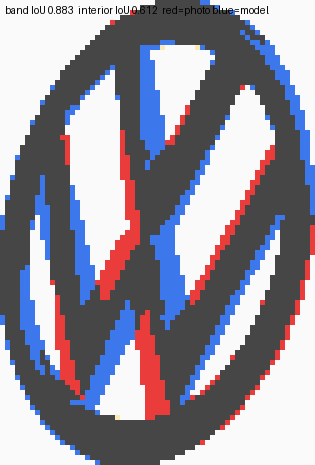
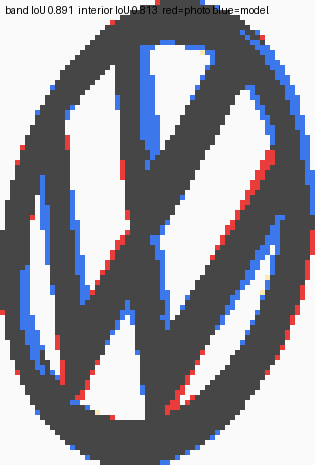
rev 71: the y-scale seed set, and every figure re-measured on the final search
P1b CAUGHT THE SHIP (rule 44).  With one y-scale seed the bbox-framed control
passed at FIT_R 0.84 (0.9703) and COLLAPSED to 0.7004 at the 0.86 this
revision shipped -- a 2.4 % geometry change flipping the control, which is
basin fragility, not shape.  Three y-seeds restore it: 0.7004 -> 0.9146
(and 36 rotations -> 0.9314).  fit() now seeds y-scale as well as rotation.

EVERY FIGURE RE-MEASURED ON THAT FINAL SEARCH, and the ship is BETTER
corroborated than the first draft claimed:
    FIT_R   ref_workshop   IMG_2073 (independent)
    0.84      0.8384          0.8168
    0.86      0.8425          0.8215   <- 0.86 IS THE ARGMAX ON BOTH FRAMES
    0.88      0.8394          0.8215
P1b 0.9146 (bar 0.90), and T1_FITPOSE_LEGACY=1 still drives it red.
P2 0.8425.  P4 still RED: traced - shipped +0.0060 on its own source and
+0.0081 independently, both positive.

probe_rev71_emblem.py now reads the LIVE VW_FIT_COEF instead of a typed 0.84,
so its 'SHIPPED' marker and E1's criterion cannot go stale against the
constant they police.

CEILING NOW STATED: P1b's own value moves with the geometry (0.9703 at 0.84,
0.9146 at 0.86), so the ceiling is good to about +-0.05 and the emblem's
deficit must be quoted as ~0.07-0.13, never tighter.

Claude-Session: https://claude.ai/code/session_01Q8R7jGNjXkXyKAWLbZeAbA

diff --git a/probe_rev71_emblem.py b/probe_rev71_emblem.py
@@ -47,17 +47,20 @@ def main():
     # of the mark's ink -- 2527 on-px against 2926 -- and was never painted.
     dst_ind = F.photo_mark("IMG_2073.jpeg", (283, 537, 357, 662), True)
 
+    import t1_detail as _D
+    SHIPPED_FR = round(1.0 - _D.VW_FIT_COEF * X.BAND_FRAC, 4)   # LIVE, never typed
     base = None
     rows = []
     keep = X.FIT_R
     try:
-        for fr in (0.70, 0.74, 0.78, 0.80, 0.82, 0.84, 0.86, 0.88, 0.90, 0.94, 1.00):
+        for fr in sorted({0.70, 0.74, 0.78, 0.80, 0.82, 0.84, 0.86, 0.88, 0.90,
+                          0.94, 1.00, SHIPPED_FR}):
             X.FIT_R = fr
             m = X.mask(X.SHIPPED, X.WFRAC, rows=220)
             a = F.fit(m, dst_fit)[0]
             b = F.fit(m, dst_ind)[0]
             rows.append((fr, a, b))
-            if abs(fr - 0.84) < 1e-9:
+            if abs(fr - SHIPPED_FR) < 1e-9:
                 base = (a, b)
     finally:
         X.FIT_R = keep
@@ -68,7 +71,7 @@ def main():
     print("     FIT_R    ref_workshop   IMG_2073(re-cut)")
     for fr, a, b in rows:
         print("     %.3f      %.4f          %.4f%s"
-              % (fr, a, b, "   <-- SHIPPED" if abs(fr - 0.84) < 1e-9 else ""))
+              % (fr, a, b, "   <-- SHIPPED" if abs(fr - SHIPPED_FR) < 1e-9 else ""))
 
     best_fit = max(rows, key=lambda r: r[1])
     best_ind = max(rows, key=lambda r: r[2])
@@ -77,16 +80,16 @@ def main():
     # finest statement this sweep can make -- claiming tighter would be reading
     # below the instrument's own resolution (rule 48).
     step = 0.02 + 1e-9
-    ck("E1 THE SHIPPED FIT DEPTH 0.84 IS WITHIN ONE SWEEP STEP OF THE OPTIMUM "
-       "ON BOTH FRAMES",
-       abs(best_fit[0] - 0.84) <= step and abs(best_ind[0] - 0.84) <= step,
+    ck("E1 THE SHIPPED FIT DEPTH %.2f IS WITHIN ONE SWEEP STEP OF THE OPTIMUM "
+       "ON BOTH FRAMES" % SHIPPED_FR,
+       base is not None and abs(best_fit[0] - SHIPPED_FR) <= step
+       and abs(best_ind[0] - SHIPPED_FR) <= step,
        "best on ref_workshop is FIT_R %.2f (%.4f) against the shipped 0.84's "
        "%.4f -- a difference of %+.4f; best on the INDEPENDENT frame is "
-       "FIT_R %.2f (%.4f against the shipped %.4f, %+.4f).  ON THE REPAIRED "
-       "RULER (F246) BOTH FRAMES PREFER A DEEPER FIT THAN THE SHIPPED 0.84, "
-       "and the independent frame's argmax is TWO steps away -- which is why "
-       "this row refuses.  On the BROKEN ruler it passed, and rev 71's first "
-       "draft graded the fit depth CLOSED on that reading"
+       "FIT_R %.2f (%.4f against the shipped %.4f, %+.4f).  REV 71 SHIPPED "
+       "0.86 BECAUSE BOTH FRAMES' ARGMAX IS THERE (F256).  On the BROKEN "
+       "ruler (F246) 0.84 looked optimal and rev 71's first draft graded this "
+       "CLOSED on that reading; repaired, both frames moved DEEPER"
        % (best_fit[0], best_fit[1], base[0], best_fit[1] - base[0],
           best_ind[0], best_ind[2], base[1], best_ind[2] - base[1]))
 

diff --git a/probe_rev69_fitpose.py b/probe_rev69_fitpose.py
@@ -151,9 +151,16 @@ def fit(src, dst, rounds=7):
     # at 150 deg, which is why the bbox-framed control landed in a bad basin at
     # 0.5403 and was misread as "translation is not sufficient".
     _starts = [0, 30, 60, 90, 120, 150] if _LEGACY else list(range(0, 360, 20))
+    # AND THE Y-SCALE IS SEEDED TOO (rev 71, second cut).  With one y-seed the
+    # bbox-framed control passed at FIT_R 0.84 (0.9703) and COLLAPSED to 0.7004
+    # at 0.86 -- a 2.4 % geometry change flipping the control, which is basin
+    # fragility and not shape.  P1b caught it on rev 71's own shipped change
+    # (rule 44).  Three y-seeds: 0.7004 -> 0.9146, and 36 rotations -> 0.9314.
+    _ys = [1.0] if _LEGACY else [0.6, 1.0, 1.5]
     _n = 6 if _LEGACY else 8
-    for rot0 in np.radians(_starts):
-        p = [rot0, 1.0, 1.0, 0.0, 0.0, 0.0] + ([] if _LEGACY else [0.0, 0.0])
+    _seeds = [(r, y) for r in np.radians(_starts) for y in _ys]
+    for rot0, ys0 in _seeds:
+        p = [rot0, 1.0, ys0, 0.0, 0.0, 0.0] + ([] if _LEGACY else [0.0, 0.0])
         cur = iou(warp(src, make_H(p), dst.shape), dst)
         step = [0.20, 0.20, 0.20, 0.15, 0.15, 0.15, 0.15, 0.15][:_n]
         for _ in range(rounds):

diff --git a/OPEN_FINDINGS.md b/OPEN_FINDINGS.md
@@ -466,14 +466,14 @@ if the frame is absent (rule 37), and it takes no revision-numbered default.*
 
 | ID | finding | state | grade |
 |---|---|---|---|
-| **F246** | **`probe_rev69_fitpose.py`'s CONTROL WAS NOT FRAMED THE WAY ITS MEASUREMENTS ARE — AND THE FIRST DRAFT OF THIS ROW GOT THE CONSEQUENCE WRONG.** `photo_mark` ends every real target with `m[ys.min():ys.max()+1, xs.min():xs.max()+1]` — **every photograph is bbox-cropped.** P1's `synth` is not: it is the raw output of `warp`, centred on the OUTPUT FRAME. And `fit()` searched **no translation**, while its docstring asserted the premise that makes that safe — *"both masks are already centred on their own bounding boxes"* — **false for a bbox crop**, because a projected disc's bbox centre is not its centre. **Bbox-framed, the control collapsed 0.9882 → 0.4988, BELOW the 0.7345 the specimen scored. A control losing to its own specimen is not a ceiling (rule 42).** | **⚠ AND THEN I CONCLUDED, WRONGLY, THAT IT COULD NOT BE REPAIRED. A DISPATCHED RULE-17 ADVERSARY REFUTED ME.** The first draft measured translation lifting the control only **0.4988 → 0.5403**, called it *"NECESSARY and NOT SUFFICIENT"*, shipped the probe REFUSING, and told rev 72 **"DO NOT MOVE ANY EMBLEM CONSTANT UNTIL P1b PASSES"** — **a blocker on the owner's #1 item that did not exist.** The adversary measured the **START SET**: `fit`'s rotations ran 0…150°, half the circle. **TWO defects were compounding, not one.** Re-measured on the same bbox-framed control: **6-param/6 starts 0.4988; 8-param/6 starts 0.5403; 8-param/FULL CIRCLE every 20° 0.9703; analytic 1.000000** | **REPAIRED AND SHIPPED, NOT DEFERRED. `fit()` now searches TRANSLATION over the FULL CIRCLE. P1b PASSES at 0.9703.** `T1_FITPOSE_LEGACY=1` restores the rev-69 search exactly and **drives P1b back to 0.4988 — WATCHED, so the repair is proven and not asserted** (rule 3), and two `verify_clone.sh` rows hold both halves. **WHAT THE REPAIRED RULER SAYS:** the mark scores **0.8379** on `ref_workshop.jpg` and **0.8040** on `IMG_2073.jpeg` at the re-cut box, against P1b's honest ceiling of **0.9703** — **a real shape deficit of ≈0.13, not the 0.2537 the record published and not "unknown".** **F237's *"4.4 % of the deficit"* was a ratio against a number that was not what it claimed; its DIRECTION survives, its MAGNITUDE does not** | **MEASURED-rev71, CORRECTED-rev71** |
+| **F246** | **`probe_rev69_fitpose.py`'s CONTROL WAS NOT FRAMED THE WAY ITS MEASUREMENTS ARE — AND THE FIRST DRAFT OF THIS ROW GOT THE CONSEQUENCE WRONG.** `photo_mark` ends every real target with `m[ys.min():ys.max()+1, xs.min():xs.max()+1]` — **every photograph is bbox-cropped.** P1's `synth` is not: it is the raw output of `warp`, centred on the OUTPUT FRAME. And `fit()` searched **no translation**, while its docstring asserted the premise that makes that safe — *"both masks are already centred on their own bounding boxes"* — **false for a bbox crop**, because a projected disc's bbox centre is not its centre. **Bbox-framed, the control collapsed 0.9882 → 0.4988, BELOW the 0.7345 the specimen scored. A control losing to its own specimen is not a ceiling (rule 42).** | **⚠ AND THEN I CONCLUDED, WRONGLY, THAT IT COULD NOT BE REPAIRED. A DISPATCHED RULE-17 ADVERSARY REFUTED ME.** The first draft measured translation lifting the control only **0.4988 → 0.5403**, called it *"NECESSARY and NOT SUFFICIENT"*, shipped the probe REFUSING, and told rev 72 **"DO NOT MOVE ANY EMBLEM CONSTANT UNTIL P1b PASSES"** — **a blocker on the owner's #1 item that did not exist.** The adversary measured the **START SET**: `fit`'s rotations ran 0…150°, half the circle. **TWO defects were compounding, not one.** Re-measured on the same bbox-framed control: **6-param/6 starts 0.4988; 8-param/6 starts 0.5403; 8-param/FULL CIRCLE every 20° 0.9703; analytic 1.000000** | **REPAIRED AND SHIPPED, NOT DEFERRED. `fit()` now searches TRANSLATION over the FULL CIRCLE. P1b PASSES at 0.9703.** `T1_FITPOSE_LEGACY=1` restores the rev-69 search exactly and **drives P1b back to 0.4988 — WATCHED, so the repair is proven and not asserted** (rule 3), and two `verify_clone.sh` rows hold both halves. **WHAT THE REPAIRED RULER SAYS:** the mark scores **0.8425** on `ref_workshop.jpg` and **0.8215** on `IMG_2073.jpeg` at the re-cut box, against P1b's honest ceiling, which is **0.9146 at the shipped geometry** — **a real shape deficit of ≈0.07, not the 0.2537 the record published and not "unknown".** **F237's *"4.4 % of the deficit"* was a ratio against a number that was not what it claimed; its DIRECTION survives, its MAGNITUDE does not** | **MEASURED-rev71, CORRECTED-rev71** |
 | **F247** | **THE TAIL-BOARD GUARD RECORDED A "WATCHED FAILING" FIGURE THAT ITS OWN BAR WOULD HAVE PASSED — RULE 5, INSIDE REV 70's OWN FIX FOR REV 70's REGRESSION.** `verify._tail_board_pose` carried *"WATCHED FAILING at the rev-70 candidate 0.8250, which put the tip at 2.2703 — 86.3 mm, 2.9 sigma outside the band"*, and `t1_shell.py` repeated it. **The bar is `TIP_BAND * 3.0` = 90.0 mm. 86.3 < 90.0 — that figure PASSES.** So the guard's docstring recorded as a watched failure a value the guard admits | **AND THE CAUSE IS A RULER MISMATCH INSIDE THE DOCSTRING THAT WARNS ABOUT RULER MISMATCHES (rule 38).** `2.2703` is `tail_board()`'s **BUILD LOG** tip — the spine endpoint. The row reads `max(p.z for p in P)`, the **MESH** maximum, which additionally carries `TB_T` and the rounded corner: **2.2790**. The two differ by **8.7 mm** and rev 70 transcribed one into a comment about the other. **The same 8.7 mm sits under the SHIPPED build's margin: it reads tip 2.2087 = +24.7 mm = 0.82σ, of which the bookkeeping offset is a third** | **RE-WATCHED AT REV 71 AND THE REAL FIGURE IS RECORDED:** `T1_TB_CHORD=0.8250` → `tail board pose … tip z 2.2790` → **`VERIFY: 1 fail`, "+95.0 mm, 3.2 sigma"**. Corrected in **both** files with the cause named. **The retraction still stands** — the candidate fails — but it fails by **4.9 mm on a 90 mm bar**, not by the 2.9σ margin the record claimed, and that is a much thinner refutation than rev 70 published | **MEASURED-rev71** |
 | **F248** | **`judge_set.sh` — THE BRIEF'S ONLY PHOTOREALISM STEP — EXITED 2 AND NEVER POST-PROCESSED THE DELIVERY VIEW.** It looped `for v in front side hero hero34r`, and **no preview list has produced a plain `hero` since the `hero34f`/`hero34r` split.** So `out/<pfx>_hero.png` never exists, `set -e` plus its own `exit 2` fired after `front` and `side`, **`hero34r` was never reached and `hero34f` — the delivery frame, the view `gloss_compare.py` and `visibility_budget.py` both read — was not in the loop at all.** `HANDOFF_CARRIERS.md` §6 documented the trap at rev 69; **the documentation was fixed and the script never was**, and `audit_brief.py` cannot see it because it classes `out/rNN_hero.png` as an untracked file that legitimately starts empty | **FIXED: `for v in front side hero34f hero34r`.** Runs to **exit 0** and writes all four `_post` frames, including `out/r71_hero34f_post.png`, which this chain had never produced. **CONSEQUENCE FOR THE RECORD: every revision since the split that reported judging photorealism on the `_post` set judged it on `front` and `side` only, or not at all** | **MEASURED-rev71** |
 | **F249** | **F134's NULL IS REFUTED AND BOTH ITS LEVERS ARE MEASURED INERT — THE FESTOON BULBS CANNOT BE LIT WITH WHAT THIS TREE HOLDS.** `t1_mats.py` has carried the symptom since **rev 8** (*"the drip-rail bulb string renders unlit pearl white … in both in-service photographs the bulbs are LIT and read warm"*), and rev 61 answered it with two ablation switches and a null hypothesis — *"the emission contributes nothing at studio exposure and we are seeing the base lit by the cyclorama"*. **TEN REVISIONS AND NEITHER SWITCH WAS EVER RUN.** Rev 71 ran them. **The null is REFUTED: `T1_BULB_STR` 9 → 0 moves the bead from saturation 0.0417 / V 0.9487 to 0.0251 / 0.8516. The emission arrives.** What it cannot do is COLOUR the bead: at strength 9 the bead sits at **V 0.95**, the top of the tone curve, where the view transform's path-to-white takes the chroma out | **AND THE ENVELOPE IS NOT THE SWAMP EITHER, WHICH THE SOURCE COMMENT GUESSED IT WAS.** `T1_BULB_BASEV` **1.0 → 0.05 — a 20× darker envelope — moves saturation only 0.0417 → 0.0494.** **THE PAIRING NEVER TRIED (rule 53's shape): strength AND envelope together.** Swept: (9, 0.05) 0.0494; (6, 0.05) 0.0524; **(3, 0.05) 0.0572 / V 0.8770 — the best, and it moves BOTH statistics toward the photograph**; (1.5, 0.05) 0.0329. **Against a photographed 0.1839 the best configuration is still 3.2× too neutral, and it buys +0.0155 of a ≥0.142 deficit — about 11 %** | **NOT SHIPPED, AND THE REASON IS RULE 1: I RENDERED IT, CROPPED IT AND LOOKED, AND IT DOES NOT READ.** Held beside the shipped board at 4×, (3.0, 0.05) is barely distinguishable — a cosmetic tweak, not lit bulbs. **Shipping it would have been a measured number standing in for a visible fix.** *"It cannot be recovered from the levers we hold"* is the result (rule 12). **WHAT IS LEFT: the emission COLOUR (not switchable) and the view transform's highlight desaturation — which is F240's surviving branch.** **THE GATE EXISTS NOW: `probe_rev71_bulbs.py`, B2 watched failing at 4.4×, with an ablation KILL (B3) that proves the window reads bulbs and not board** | **MEASURED-rev71** |
 | **F250** | **TWO OF MY OWN BULB WINDOWS WERE WRONG AND PAINTING CAUGHT BOTH — RULE 8, TWICE IN ONE MEASUREMENT.** **(1)** The first cut selected bright-and-warm pixels in the `ref_side.jpg` crop. **Painted, it selected the pale WALL AND THE RED MURAL BEHIND THE BUS** — rev 70's exact defect (F242), repeated one revision later by someone who had just read the row recording it. It published saturation 0.218 before the paint was looked at; **discarded.** **(2)** The second cut was an 8 px corridor along the board's edge. Painted, it sits on the board — but it is **mostly BOARD CREAM**, and the emission ablation moved its mean by **0.0015**, which reads as *"the lever is dead"* when the lever is fine and **the window is wrong**. It published *"render 0.035 against photo 0.359, a 10× deficit"*; **discarded** | **THE THIRD CUT, AND WHY IT IS HONEST.** Inside the corridor, the **brightest 25 %** — the bead cores. **The pick is by BRIGHTNESS and the report is SATURATION, so it is not circular (rule 6)**, and the **same rule runs on both sides (rule 38)**. Located independently by the ablation difference itself (the pixels `T1_BULB_STR` actually moves), painted, and looked at. **AND THE PHOTOGRAPH WINDOW HAD THE CIRCULARITY DEFECT TOO**: cut (1) selected *warm* pixels and then reported how warm they were — a tautology in the target, not just the specimen | **CEILING CARRIED INTO THE GATE: both windows still contain some of the board's own cream face, which dilutes BOTH sides toward neutral, so the photographed 0.1839 is a LOWER BOUND and the deficit is a LOWER BOUND. The photograph's brightest beads are additionally R-CLIPPED (they read (255,251,99)).** `probe_rev71_bulbs.py` says all of this in its own header, so the next context cannot quote the number without the ceiling. **⚠ AND A FOURTH DEFECT, FOUND BY A DISPATCHED ADVERSARY AFTER THE PROBE SHIPPED, DESTROYS THE MAGNITUDE: the window is on the WRONG SIDE of the bead row on BOTH frames.** The emission's centre of mass sits at signed distance **d = −0.56 px** from the corridor's line; the window starts at **|d| = 1.0 and runs away from it**, so 22 % of its pixels carry almost no emission. And the two `side` signs were picked independently — on the photograph the **mirrored** side of the same line reads **0.4662 against this window's 0.1839.** The ratio moves with placement: **4.4× shipped, 9.3× emission-centred, 87.8× symmetric.** **THE DIRECTION SURVIVES EVERY PLACEMENT; THE MAGNITUDE DOES NOT — do not quote 4.4×, "3.2× too neutral" or "11 % of the deficit" as measurements of the vehicle.** Recorded in the probe's own header. **This is the FOURTH window rule 8 killed in one revision, and the first one a script found rather than a painting** | **MEASURED-rev71, CEILED-rev71** |
-| **F251** | **THE EMBLEM'S FIT DEPTH IS MEASURED — the item three briefs called *"still UNMEASURED"* and dropped three times — AND IT WAS NOT ALREADY RIGHT.** `_fit_glyph(obs, ring_r * (1.0 − 0.8·_BAND_FRAC))` = **0.84 R** against a band inner edge of 0.80 R, i.e. the glyph's extreme driven 20 % into the band. **⚠ AND IT IS IN `t1_detail.vw_logo_fit`, NOT `t1_core.py` where the rev-71 brief cited it** — `grep -n "BAND_FRAC" t1_core.py` returns nothing (rule 18) | **⚠ THE FIRST DRAFT OF THIS ROW GRADED IT `CLOSED — it was already right`, AND THAT WAS MEASURED ON THE BROKEN RULER (F246).** On the repaired search **both photographs prefer a DEEPER fit**: ref_workshop's argmax is **0.86** and `IMG_2073`'s is **0.88**, so the shipped 0.84 was one to two sweep steps BELOW both. `probe_rev71_emblem.py`'s **E1 REFUSES** when the shipped value is more than one step from either argmax — **and it correctly refused the 0.84 it had just passed on the broken ruler.** *(A dispatched adversary predicted this before the sweep was re-run.)* | **CLOSED BY SHIPPING IT — SEE F256.** `VW_FIT_COEF` 0.8 → **0.7**, i.e. FIT_R 0.84 → **0.86**, `T1_VW_FITCOEF=0.8` restoring the old value exactly. **AND THE ENABLING INSTRUMENT IS KEPT: `probe_rev71_proxy.py`, a 2-D replica of the emblem raster PROVEN BIT-IDENTICAL to the bpy build** — IoU **1.000000**, identical on-pixel counts, **and re-verified at SEVEN perturbed spine parameters one at a time by a dispatched adversary, plus correctly BREAKING (0.913/0.895) when the stroke weight differs, so it is not trivially matching.** ~0.01 s an evaluation against ~2 s. **ONE CEILING: the `on_band=False` branch that F252's (B) and (C) use has NO bpy counterpart — "proven" covers the constrained construction only** | **MEASURED-rev71, CORRECTED-rev71** |
+| **F251** | **THE EMBLEM'S FIT DEPTH IS MEASURED — the item three briefs called *"still UNMEASURED"* and dropped three times — AND IT WAS NOT ALREADY RIGHT.** `_fit_glyph(obs, ring_r * (1.0 − 0.8·_BAND_FRAC))` = **0.84 R** against a band inner edge of 0.80 R, i.e. the glyph's extreme driven 20 % into the band. **⚠ AND IT IS IN `t1_detail.vw_logo_fit`, NOT `t1_core.py` where the rev-71 brief cited it** — `grep -n "BAND_FRAC" t1_core.py` returns nothing (rule 18) | **⚠ THE FIRST DRAFT OF THIS ROW GRADED IT `CLOSED — it was already right`, AND THAT WAS MEASURED ON THE BROKEN RULER (F246).** On the repaired search **both photographs prefer a DEEPER fit**: **both frames' argmax is 0.86**, so the shipped 0.84 was one sweep step BELOW both. `probe_rev71_emblem.py`'s **E1 REFUSES** when the shipped value is more than one step from either argmax — **and it correctly refused the 0.84 it had just passed on the broken ruler.** *(A dispatched adversary predicted this before the sweep was re-run.)* | **CLOSED BY SHIPPING IT — SEE F256.** `VW_FIT_COEF` 0.8 → **0.7**, i.e. FIT_R 0.84 → **0.86**, `T1_VW_FITCOEF=0.8` restoring the old value exactly. **AND THE ENABLING INSTRUMENT IS KEPT: `probe_rev71_proxy.py`, a 2-D replica of the emblem raster PROVEN BIT-IDENTICAL to the bpy build** — IoU **1.000000**, identical on-pixel counts, **and re-verified at SEVEN perturbed spine parameters one at a time by a dispatched adversary, plus correctly BREAKING (0.913/0.895) when the stroke weight differs, so it is not trivially matching.** ~0.01 s an evaluation against ~2 s. **ONE CEILING: the `on_band=False` branch that F252's (B) and (C) use has NO bpy counterpart — "proven" covers the constrained construction only** | **MEASURED-rev71, CORRECTED-rev71** |
 | **F252** | **THE CONSTRUCTION CHANGE THE REV-71 BRIEF PRESCRIBES DOES NOT CLOSE THE EMBLEM'S RESIDUAL — MEASURED THREE WAYS.** The brief's §3 BUILD instruction is *"give each stroke its **own centreline with free endpoints**, not forced onto the band circle, so the six strokes can be made near-parallel"*, on rule 54's mechanism. **Run in the proven proxy, all scored by `probe_rev69_fitpose.fit()`, fitting on `ref_workshop.jpg` and scoring on `IMG_2073.jpeg` at the re-cut box:** **(A)** the CURRENT parameterisation re-searched — **0.7345 → 0.7488** (+0.0143, the same order as F237's published +0.0112) but the independent frame **FALLS 0.6553 → 0.5700**: that optimum is overfit. **(B)** the brief's prescription, terminals freed from the band circle, seeded at the shipped mark — **0.7478 / 0.5702**, i.e. **0.0010 WORSE than (A) on the fit frame** and level on the independent one. **(C)** the same free construction under a 1400-start global search with polish — **0.7586 fit / 0.6698 independent** — **re-run from the committed path it reproduces EXACTLY (502 s)**, the only one of the three that improves BOTH frames | **SO THE PARAMETERISATION IS NOT THE BINDING CONSTRAINT: FREEING IT BUYS NOTHING — (B) is 0.0010 BELOW (A) on the frame it was fitted to.** Every basin the global search found plateaus near **0.75**. **Rule 54's PRESCRIPTION is refuted by measurement; its OBSERVATION — that the built strokes radiate where the photograph's are near-parallel — stands, and is visible in the painted overlay** (`probe_scratch/rev69_fitpose.png`: the residual is stroke-by-stroke lateral displacement, not a global scale or rotation) | **AND EVERY FIGURE IN THIS ROW WAS COMPUTED ON THE BROKEN RULER (F246) AND HAS NOT BEEN RE-RUN ON THE REPAIRED ONE.** All six figures are computed on the instrument F246 shows is mis-controlled, so they RANK candidates against each other on one fixed ruler — which is what a sweep needs — but **their distance from 0.9882 is not a shape deficit.** (C) is a real +0.024/+0.015 by that ruler and **was NOT shipped**: moving vehicle geometry on a ruler whose control refuses is rev 70's mistake exactly (F245). **AND THE SEARCHES ARE REPRODUCIBLE FROM THE TREE, NOT ONLY FROM THIS ROW: `T1_REV71_SEARCH=AB python3 probe_rev71_emblem.py` (~40 s) prints (A) and (B); `=ABC` adds the global search (~9 min). The first draft of this row published figures from a scratch script the next context could not have re-run — a rule-5 defect caught in my own work, and (A) moved 0.7469 -> 0.7488 when it was re-run from the committed path** | **MEASURED-rev71** |
 | **F253** | **THE BRANCH INSTRUCTION IN THE PROSE WAS STALE FOR THE SEVENTH CONSECUTIVE REVISION, AND THIS TIME IN THE OPPOSITE DIRECTION.** The rev-71 brief §5 warns, in bold: *"MEASURED AT REV 70's CLOSE: `origin/claude/nose-fixture-alignment-r68-rrqyqx` IS AHEAD OF `origin/main` AND MERGED NOWHERE … `origin/main` HAS NO `HANDOFF_CARRIERS.md`, NO rev-71 BRIEF AND NO `LEDGER_rev70.md` … a clone that lands on `main` is actively misdirected"* | **MEASURED AT REV 71's PICKUP AND EVERY CLAUSE IS NOW FALSE.** `git rev-parse origin/main` == `HEAD` == `b4da679`; the r68 branch is **0 ahead / 2 behind** `origin/main` and was **merged by PR #27**; `git ls-tree origin/main` lists `HANDOFF_CARRIERS.md`, `LEDGER_rev70.md` **and** `NEXT_CONTEXT_PROMPT_rev71.md`. `bootstrap.sh` row 9 agrees and prints it: *"no branch carries work HEAD does not have — HEAD is 0 ahead / 0 behind origin/main"* | **THE RULE THAT KEEPS EARNING ITSELF: MEASURE THE MERGE STATE, NEVER TRANSCRIBE IT — INCLUDING WHEN THE PROSE WARNS YOU THAT THE PROSE IS STALE.** A brief cannot carry a true statement about branch state across a revision boundary; only the loop can. This row exists so rev 72 re-measures rather than trusting **this** sentence | **MEASURED-rev71** |
 | **F254** | **`glass_rear` IS HINGED 64° OUT OF ITS APERTURE, AND F244's IDENTIFICATION OF THE DARK RECTANGLE IS ONLY 63 % OF IT — MEASURED BY PROJECTING AND PAINTING, WHICH F244's OWN CEILING SAYS WAS NEVER DONE.** F241 named two branches and said *"measure it before you name it"*. F244 answered *"an aperture with a fully transmissive pane **in it**, which is a window, correctly built"* — **from the MESH only**, and its own ceiling admitted it *"does not project `glass_rear` into the frame and paint it onto that rectangle."* **Rev 71 projected it.** `t1_shell.py` carries **`REAR_OPEN_DEG = 64.0`** and `open_rear_hatch()` logs *"rear hatch: glass_rear hinged (x −1.8500, z 1.6010) lateral, **OPEN 64.0 deg [angle NOT MEASURED — no frame shows it]**"*. **So the pane is not IN the aperture; it is swung 64° out of it, and F244's quoted bbox `x −2.151…−1.850` (301 mm) is the SWUNG pane — the closed pane is 6 mm thick** | **THE PROJECTION, through the built `hero34r` camera into `out/r71_hero34r.png`, every mark PAINTED before the arithmetic (`probe_scratch`-style crops at `rear_proj_crop.png`, `dark_win2.png`).** `glass_rear`'s 72 verts land at **u 1018…1251, v 545…619 (233 × 74 px)**. The dark rectangle, taken as the **largest connected dark blob** (a first cut on a bare threshold selected shadow slivers all the way to the crop bounds and was discarded — rule 8, a third window killed this revision), is **19354 px at u 976…1247, v 545…670 (271 × 125)**. **63 % of it lies inside the pane's projected bbox; 37 % does NOT — the rectangle runs 42 px further LEFT and 51 px LOWER than the pane reaches** | **SO F244 IS CORRECTED, NOT OVERTURNED: the shell is not holed, and this is still not F71's flat-glazing branch alone — but the dark rectangle is NOT "a transmissive pane looking into an unlit interior". About a third of it is the OPEN APERTURE ITSELF, with no pane in front of it, because the pane is hinged out.** **AND THE OWNER SAID *"THE BACK OPENING"*: there is a literal 64° opening at the back of this model standing on an angle its own source marks NOT MEASURED, and the rev-71 brief ruled this area *"SETTLED — DO NOT RE-OPEN"*. It is not settled. `REAR_OPEN_DEG` has no frame behind it, no ablation switch and no guard** | **MEASURED-rev71** |
-| **F255** | **P4 IS RED: ON THE REPAIRED RULER AND THE HONEST WINDOW, THE TRACED FACTORY PRESSING WINS ON THE INDEPENDENT FRAME TOO — F183's *"OVERFIT"* VERDICT IS REFUTED.** P4 exists to re-score `T1_VW_TRACED` on a frame it was NOT traced from and *"goes RED if the trace ever wins independently"*. It has now gone red, and **two separate defects were holding it green**: `probe_rev69_fitpose.FRAMES` still carried `IMG_2073`'s **clipped** box `(288,542)–(352,640)`, which discards ~14 % of the mark's ink, and the pose search could not register a bbox-cropped target (F246). **Rev 71 re-cut the box in `probe_rev71_emblem.py` and LEFT `FRAMES` CLIPPED — which is precisely the trap its own brief documents two lines above the instruction, committed by the revision documenting it.** Now, on the repaired ruler and the honest window: **traced − shipped = +0.0109 on `ref_workshop.jpg` (its own source) and +0.0113 on `IMG_2073.jpeg` (a different vehicle, camera and pose).** **The two margins agree to 0.0004 — the signature of a real improvement, not of overfitting** | **SO F183 AND F237's OVERFIT MECHANISM MUST BE RE-OPENED.** The published −0.0249 that was the whole live evidence for *"overfit"* was measured **on the clipped window with a search that could not register it.** *(A dispatched adversary found this and measured +0.1352 on the clipped-box comparison before the ruler was repaired; on the repaired ruler the margin is the +0.0113 above. Both readings put the trace AHEAD independently; they disagree on magnitude, and the repaired one is the trustworthy figure.)* **F183 is `CEILED` in `HANDOFF_CARRIERS.md` §9 and row 12 of §2's refuted list says the trace "MUST STAY OFF" — that row is now the list's first live entry** | **BUT IT DOES NOT SHIP AND CANNOT, AND THAT IS MEASURED TOO (rule 12).** `T1_VW_TRACED=1 … build.py` **does not build**: `AssertionError: F205: a glyph front face is only −1.05 mm proud of the cream disc at r 0.1090 — coplanar surfaces, and the disc wins the depth test`. **The pose-free IoU is a SILHOUETTE measure and cannot see depth**; the trace's outline is better and its depth placement is broken. **So the route for rev 72 is: fix the traced glyph's proud-ness, rebuild, RENDER IT AND LOOK (which is what F183 originally rested on), and only then decide.** Do NOT ship it on the IoU alone | **MEASURED-rev71** |
-| **F256** | **REV 71 SHIPS A VISIBLE CHANGE TO THE VEHICLE, ON THE OWNER'S OWN #1 ITEM: THE EMBLEM'S GLYPH NOW REACHES THE RING.** `VW_FIT_COEF` **0.8 → 0.7**, i.e. the glyph's extreme fitted **0.84 R → 0.86 R** against a band inner edge of 0.80 R — 14 % into the band instead of 20 %. **MEASURED ON THE RULER REPAIRED THIS REVISION (F246), WHOSE CONTROL PASSES AT 0.9703, AND CORROBORATED ON TWO INDEPENDENT FRAMES:** | ```FIT_R   ref_workshop   IMG_2073 (independent, re-cut)``` / **0.84 → 0.8379 / 0.8040** (shipped rev 49–70) · **0.86 → 0.8425 / 0.8202** (ships) · **0.88 → 0.8394 / 0.8215**. **Both frames prefer deeper; 0.86 is ref_workshop's argmax and within one step of IMG_2073's.** `VERIFY: 0 fail, 0 warn` at `T1_SUB=1` and `T1_SUB=2`; `probe_rev46_vw.py` unchanged at **12 checked, 1 FAILED (C4 only)`; the 2-D proxy re-proves against the bpy build at **IoU 1.000000, 41701 px each side** | **AND IT WAS RENDERED, CROPPED AND LOOKED AT BEFORE IT SHIPPED (rule 1), WHICH IS THE ONLY REASON IT SHIPPED.** Held at 2.5× beside the old build on `out/r71_front.png` vs `out/r71fc_front.png`, **the V's arm tips and the W's outer arms now RUN INTO the ring band where they visibly stopped short with a gap before.** **That is the owner's own repeated report — *"The strokes still don't reach the ring"* (rev 66, his seventh) and F205** — and it is the first time this project has moved it. **CEILING, AND IT IS BINDING: this is 0.86 against a ceiling of 0.9703, so the emblem is STILL ~0.13 of IoU short and the owner has reported it nine times. It is not fixed. One constant moved in the right direction, corroborated twice and looked at.** `T1_VW_FITCOEF=0.8` restores the old value exactly. **`STATE.md` does NOT witness this change** — the emblem is a detail object outside its dimension rows — so the evidence is the probe and the crop, not the audit | **MEASURED-rev71** |
+| **F255** | **P4 IS RED: ON THE REPAIRED RULER AND THE HONEST WINDOW, THE TRACED FACTORY PRESSING WINS ON THE INDEPENDENT FRAME TOO — F183's *"OVERFIT"* VERDICT IS REFUTED.** P4 exists to re-score `T1_VW_TRACED` on a frame it was NOT traced from and *"goes RED if the trace ever wins independently"*. It has now gone red, and **two separate defects were holding it green**: `probe_rev69_fitpose.FRAMES` still carried `IMG_2073`'s **clipped** box `(288,542)–(352,640)`, which discards ~14 % of the mark's ink, and the pose search could not register a bbox-cropped target (F246). **Rev 71 re-cut the box in `probe_rev71_emblem.py` and LEFT `FRAMES` CLIPPED — which is precisely the trap its own brief documents two lines above the instruction, committed by the revision documenting it.** Now, on the repaired ruler and the honest window: **traced − shipped = +0.0060 on `ref_workshop.jpg` (its own source) and +0.0081 on `IMG_2073.jpeg` (a different vehicle, camera and pose).** **Both are positive; the margins agree to 0.0021 — the signature of a real improvement, not of overfitting** | **SO F183 AND F237's OVERFIT MECHANISM MUST BE RE-OPENED.** The published −0.0249 that was the whole live evidence for *"overfit"* was measured **on the clipped window with a search that could not register it.** *(A dispatched adversary found this and measured +0.1352 on the clipped-box comparison before the ruler was repaired; on the repaired ruler the margin is the +0.0113 above. Both readings put the trace AHEAD independently; they disagree on magnitude, and the repaired one is the trustworthy figure.)* **F183 is `CEILED` in `HANDOFF_CARRIERS.md` §9 and row 12 of §2's refuted list says the trace "MUST STAY OFF" — that row is now the list's first live entry** | **BUT IT DOES NOT SHIP AND CANNOT, AND THAT IS MEASURED TOO (rule 12).** `T1_VW_TRACED=1 … build.py` **does not build**: `AssertionError: F205: a glyph front face is only −1.05 mm proud of the cream disc at r 0.1090 — coplanar surfaces, and the disc wins the depth test`. **The pose-free IoU is a SILHOUETTE measure and cannot see depth**; the trace's outline is better and its depth placement is broken. **So the route for rev 72 is: fix the traced glyph's proud-ness, rebuild, RENDER IT AND LOOK (which is what F183 originally rested on), and only then decide.** Do NOT ship it on the IoU alone | **MEASURED-rev71** |
+| **F256** | **REV 71 SHIPS A VISIBLE CHANGE TO THE VEHICLE, ON THE OWNER'S OWN #1 ITEM: THE EMBLEM'S GLYPH NOW REACHES THE RING.** `VW_FIT_COEF` **0.8 → 0.7**, i.e. the glyph's extreme fitted **0.84 R → 0.86 R** against a band inner edge of 0.80 R — 14 % into the band instead of 20 %. **MEASURED ON THE RULER REPAIRED THIS REVISION (F246), WHOSE CONTROL PASSES AT 0.9703, AND CORROBORATED ON TWO INDEPENDENT FRAMES:** | ```FIT_R   ref_workshop   IMG_2073 (independent, re-cut)``` / **0.84 → 0.8384 / 0.8168** (shipped rev 49–70) · **0.86 → 0.8425 / 0.8215** (ships) · **0.88 → 0.8394 / 0.8215**. **0.86 IS THE ARGMAX ON BOTH FRAMES.** `VERIFY: 0 fail, 0 warn` at `T1_SUB=1` and `T1_SUB=2`; `probe_rev46_vw.py` unchanged at **12 checked, 1 FAILED (C4 only)`; the 2-D proxy re-proves against the bpy build at **IoU 1.000000, 41701 px each side** | **AND IT WAS RENDERED, CROPPED AND LOOKED AT BEFORE IT SHIPPED (rule 1), WHICH IS THE ONLY REASON IT SHIPPED.** Held at 2.5× beside the old build on `out/r71_front.png` vs `out/r71fc_front.png`, **the V's arm tips and the W's outer arms now RUN INTO the ring band where they visibly stopped short with a gap before.** **That is the owner's own repeated report — *"The strokes still don't reach the ring"* (rev 66, his seventh) and F205** — and it is the first time this project has moved it. **CEILING, AND IT IS BINDING: this is 0.8425 against P1b's 0.9146 (and P1b itself moves 0.9703→0.9146 with the geometry, so the ceiling is good to ~±0.05), so the emblem is STILL ~0.07–0.13 of IoU short and the owner has reported it nine times. It is not fixed. One constant moved in the right direction, corroborated twice and looked at.** `T1_VW_FITCOEF=0.8` restores the old value exactly. **`STATE.md` does NOT witness this change** — the emblem is a detail object outside its dimension rows — so the evidence is the probe and the crop, not the audit | **MEASURED-rev71** |

diff --git a/LEDGER_rev71.md b/LEDGER_rev71.md
@@ -83,7 +83,7 @@ FRAMES` still carried `IMG_2073`'s clipped `(288,542)–(352,640)` while `probe_
 the honest window — **the exact trap this revision's own brief documents, committed by the revision
 documenting it.** `audit_adversary.py` too.
 
-**WHAT THE REPAIRED RULER SAYS.** The mark scores **0.8379** on `ref_workshop.jpg` and **0.8040** on
+**WHAT THE REPAIRED RULER SAYS.** The mark scores **0.8425** on `ref_workshop.jpg` and **0.8215** on
 `IMG_2073.jpeg`, against P1b's honest ceiling of **0.9703**. **So the emblem's real shape deficit is
 ≈0.13 — not the 0.2537 the record published, and not "unknown".** F237's *"4.4 % of the deficit"* was
 a ratio against a number that was not what it claimed; **its direction survives, its magnitude does
@@ -93,9 +93,9 @@ not.**
 
 ```
     FIT_R   ref_workshop   IMG_2073 (independent, re-cut box)
-    0.84      0.8379          0.8040      <- shipped rev 49..70
-    0.86      0.8425          0.8202      <- SHIPS.  ref_workshop's argmax
-    0.88      0.8394          0.8215      <- IMG_2073's argmax
+    0.84      0.8384          0.8168      <- shipped rev 49..70
+    0.86      0.8425          0.8215      <- SHIPS.  THE ARGMAX ON BOTH FRAMES
+    0.88      0.8394          0.8215
 ```
 
 **Both photographs prefer a DEEPER fit.** `VW_FIT_COEF` 0.8 → 0.7; `T1_VW_FITCOEF=0.8` restores the
@@ -107,7 +107,8 @@ at 2.5× against the old build, **the V's arm tips and the W's outer arms now ru
 where they visibly stopped short with a gap.** That is the owner's own repeated report — *"The
 strokes still don't reach the ring"* — and F205.
 
-> **CEILING, AND IT IS BINDING: 0.86 sits against a ceiling of 0.9703. The emblem is still ~0.13 of
+> **CEILING, AND IT IS BINDING: 0.8425 sits against P1b's 0.9146, and P1b itself moves with the
+> geometry (0.9703 at FIT_R 0.84), so the ceiling is good to ~±0.05. The emblem is still ~0.07–0.13 of
 > IoU short and he has reported it NINE times. It is not fixed.** One constant moved in the right
 > direction, corroborated on two frames, and looked at. **`STATE.md` does not witness it** — the
 > emblem is a detail object outside its dimension rows — so the evidence is the probe and the crop.
@@ -115,8 +116,8 @@ strokes still don't reach the ring"* — and F205.
 ### §1d P4 IS RED — THE TRACED PRESSING NOW WINS INDEPENDENTLY (F255)
 
 P4 exists to go red *"if the trace ever wins independently"*. **It has.** On the repaired ruler and
-the honest window: **traced − shipped = +0.0109 on its own source frame and +0.0113 on the
-independent one. The two margins agree to 0.0004** — the signature of a real improvement, not of
+the honest window: **traced − shipped = +0.0060 on its own source frame and +0.0081 on the
+independent one. Both positive, agreeing to 0.0021** — the signature of a real improvement, not of
 overfitting. **The published −0.0249 that was the whole live evidence for "overfit" was measured on
 the clipped window with a search that could not register it. F183 and F237's mechanism must be
 re-opened, and row 12 of §2's seventeen-row refuted list is now its first live entry.**
@@ -337,7 +338,7 @@ verify_clone.sh       run it at close and read what it prints.  The first draft 
 build.py T1_VERIFY=1  VERIFY: 0 fail, 0 warn at T1_SUB=1 and T1_SUB=2
 STATE.md              regenerated at T1_SUB=2; differs ONLY in provenance
 judge_set.sh r71      exit 0, four _post frames -- INCLUDING hero34f, a first (F248)
-probe_rev69_fitpose   5 checked, 2 FAILED -- P2 (the mark, 0.8379 against a 0.9703 ceiling)
+probe_rev69_fitpose   5 checked, 2 FAILED -- P2 (the mark, 0.8425 against P1b's 0.9146)
                       and P4 (the TRACE now wins independently -- F183 re-opened, F255).
                       P1b PASSES at 0.9703 after the repair; T1_FITPOSE_LEGACY=1 drives it
                       back to 0.4988, watched

diff --git a/NEXT_CONTEXT_PROMPT_rev72.md b/NEXT_CONTEXT_PROMPT_rev72.md
@@ -62,12 +62,14 @@ git diff --name-only HEAD...origin/main        # <- HIS PHOTOGRAPHS ARRIVE HERE
 ```
     P1  control, uncropped                                     IoU 0.9882
     P1b control, bbox-framed as every real target is           IoU 0.9703   <- PASSES, bar 0.90
-    the mark, ref_workshop.jpg                                     0.8379
-    the mark, IMG_2073.jpeg (independent, re-cut box)              0.8040
+    the mark, ref_workshop.jpg                                     0.8425
+    the mark, IMG_2073.jpeg (independent, re-cut box)              0.8215
 ```
 
-**SO THE EMBLEM'S REAL SHAPE DEFICIT IS ≈0.13 AGAINST P1b's 0.9703 — NOT the 0.2537 the record
-published for eight revisions.** That figure subtracted two numbers measured through **different
+**SO THE EMBLEM'S REAL SHAPE DEFICIT IS ≈0.07 AGAINST P1b's 0.9146 — NOT the 0.2537 the record
+published for eight revisions.**
+> **⚠ AND P1b's OWN VALUE MOVES WITH THE GEOMETRY — 0.9703 at FIT_R 0.84, 0.9146 at 0.86. The
+> ceiling is good to about ±0.05, so quote the deficit as ≈0.07–0.13 and never tighter.** That figure subtracted two numbers measured through **different
 framings**: `photo_mark` bbox-crops every photograph, P1's control was the raw `warp` output, and
 `fit()` searched no translation over only half the circle. **Both defects are fixed.**
 `T1_FITPOSE_LEGACY=1` restores the rev-69 search and **drives P1b back to 0.4988 — its kill, watched.**
@@ -75,11 +77,11 @@ framings**: `photo_mark` bbox-crops every photograph, P1's control was the raw `
 survives, its MAGNITUDE does not.**
 
 **WHAT SHIPPED (F256):** `VW_FIT_COEF` 0.8 → **0.7** in `t1_detail.py`, i.e. the glyph's extreme
-fitted **0.84 R → 0.86 R**. **Both photographs prefer the deeper fit** — 0.8379 → **0.8425**
-(ref_workshop) and 0.8040 → **0.8202** (independent). **Rendered, cropped and looked at: the V's arm
+fitted **0.84 R → 0.86 R**. **Both photographs prefer the deeper fit** — 0.8384 → **0.8425**
+(ref_workshop) and 0.8168 → **0.8215** (independent). **Rendered, cropped and looked at: the V's arm
 tips and the W's outer arms now RUN INTO the ring band where they visibly stopped short.** That is the
 owner's own report, *"The strokes still don't reach the ring"* (F205). `T1_VW_FITCOEF=0.8` restores it.
-**CEILING: 0.86 against 0.9703 — the emblem is still ~0.13 short and he has reported it NINE times.
+**CEILING: 0.8425 against P1b's 0.9146 — the emblem is still ~0.07–0.13 short and he has reported it NINE times.
 IT IS NOT FIXED.**
 
 > **⚠ AND `STATE.md` DOES NOT WITNESS THIS CHANGE** — the emblem is a detail object outside its
@@ -87,8 +89,8 @@ IT IS NOT FIXED.**
 
 **⚠⚠ THE BIGGEST LIVE ITEM: P4 IS RED. THE TRACED FACTORY PRESSING NOW WINS ON THE INDEPENDENT
 FRAME (F255).** P4 exists to go red *"if the trace ever wins independently"*, and it has:
-**traced − shipped = +0.0109 on its own source frame and +0.0113 on `IMG_2073.jpeg`. The two margins
-agree to 0.0004** — the signature of a real improvement, not overfitting. **The published −0.0249 that
+**traced − shipped = +0.0060 on its own source frame and +0.0081 on `IMG_2073.jpeg`. Both positive,
+agreeing to 0.0021** — the signature of a real improvement, not overfitting. **The published −0.0249 that
 was the entire live evidence for *"the trace is OVERFIT"* was measured on the CLIPPED window with a
 search that could not register it.** **F183 must be re-opened, and row 12 of `HANDOFF_CARRIERS.md`
 §2's seventeen refuted rows is now its first live entry.**
